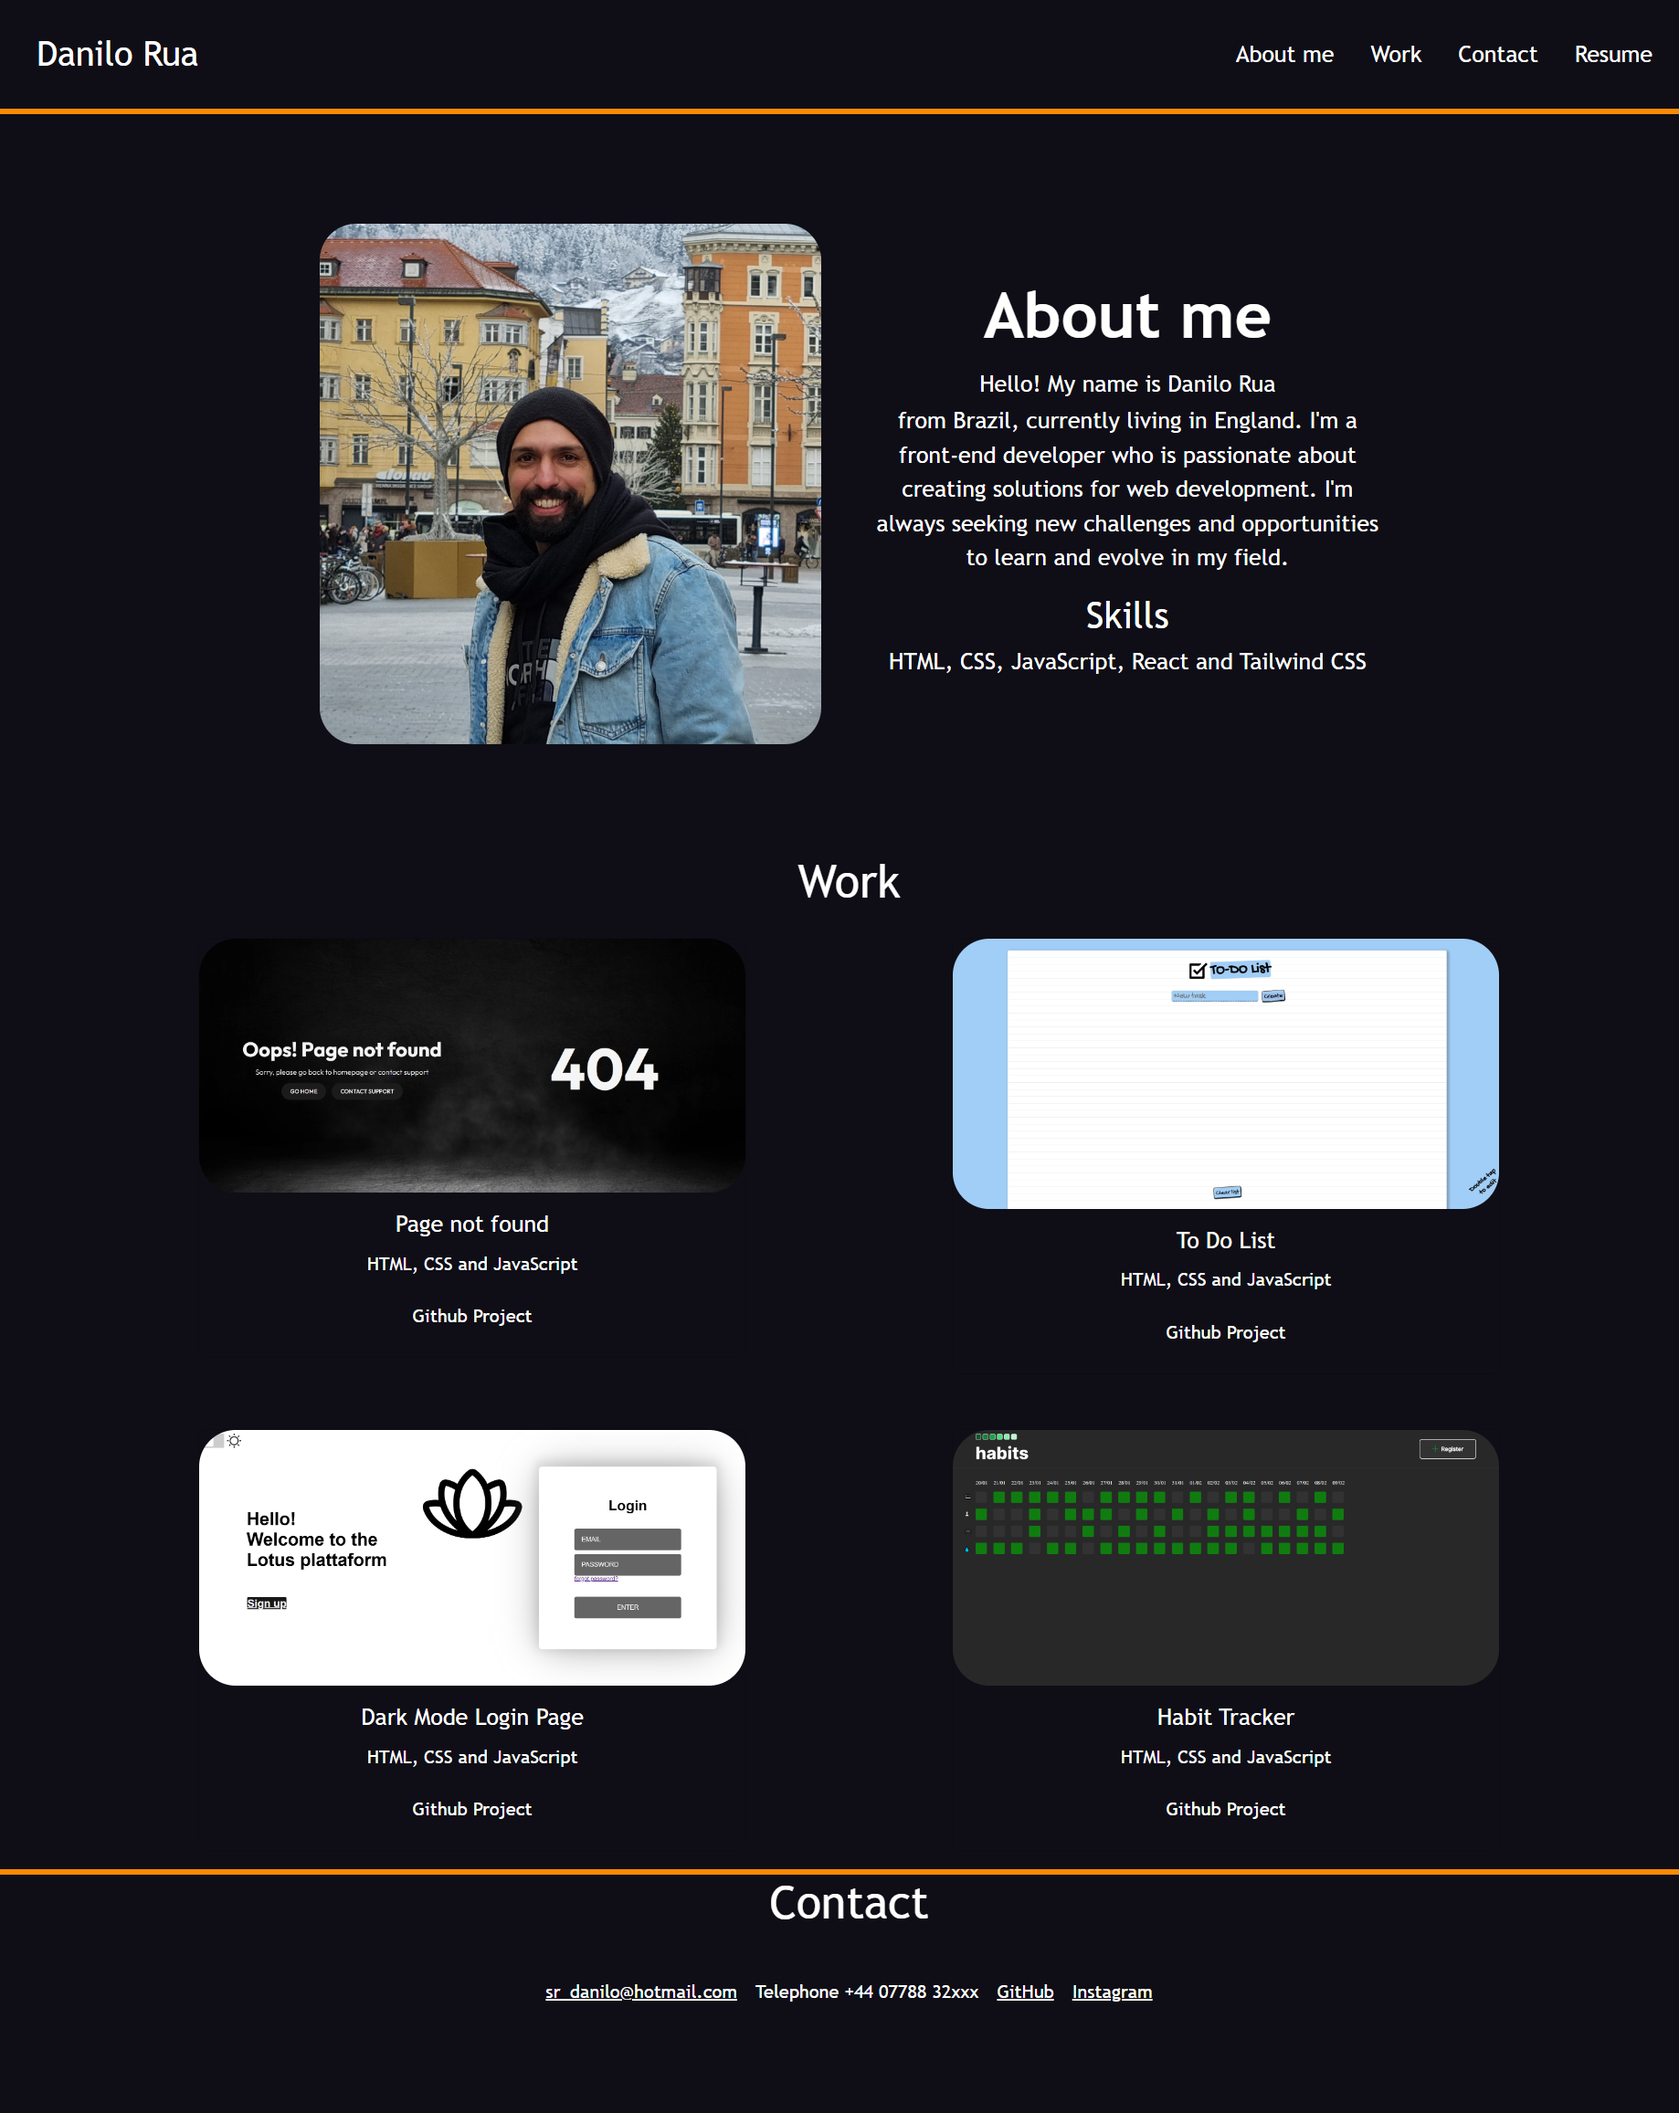
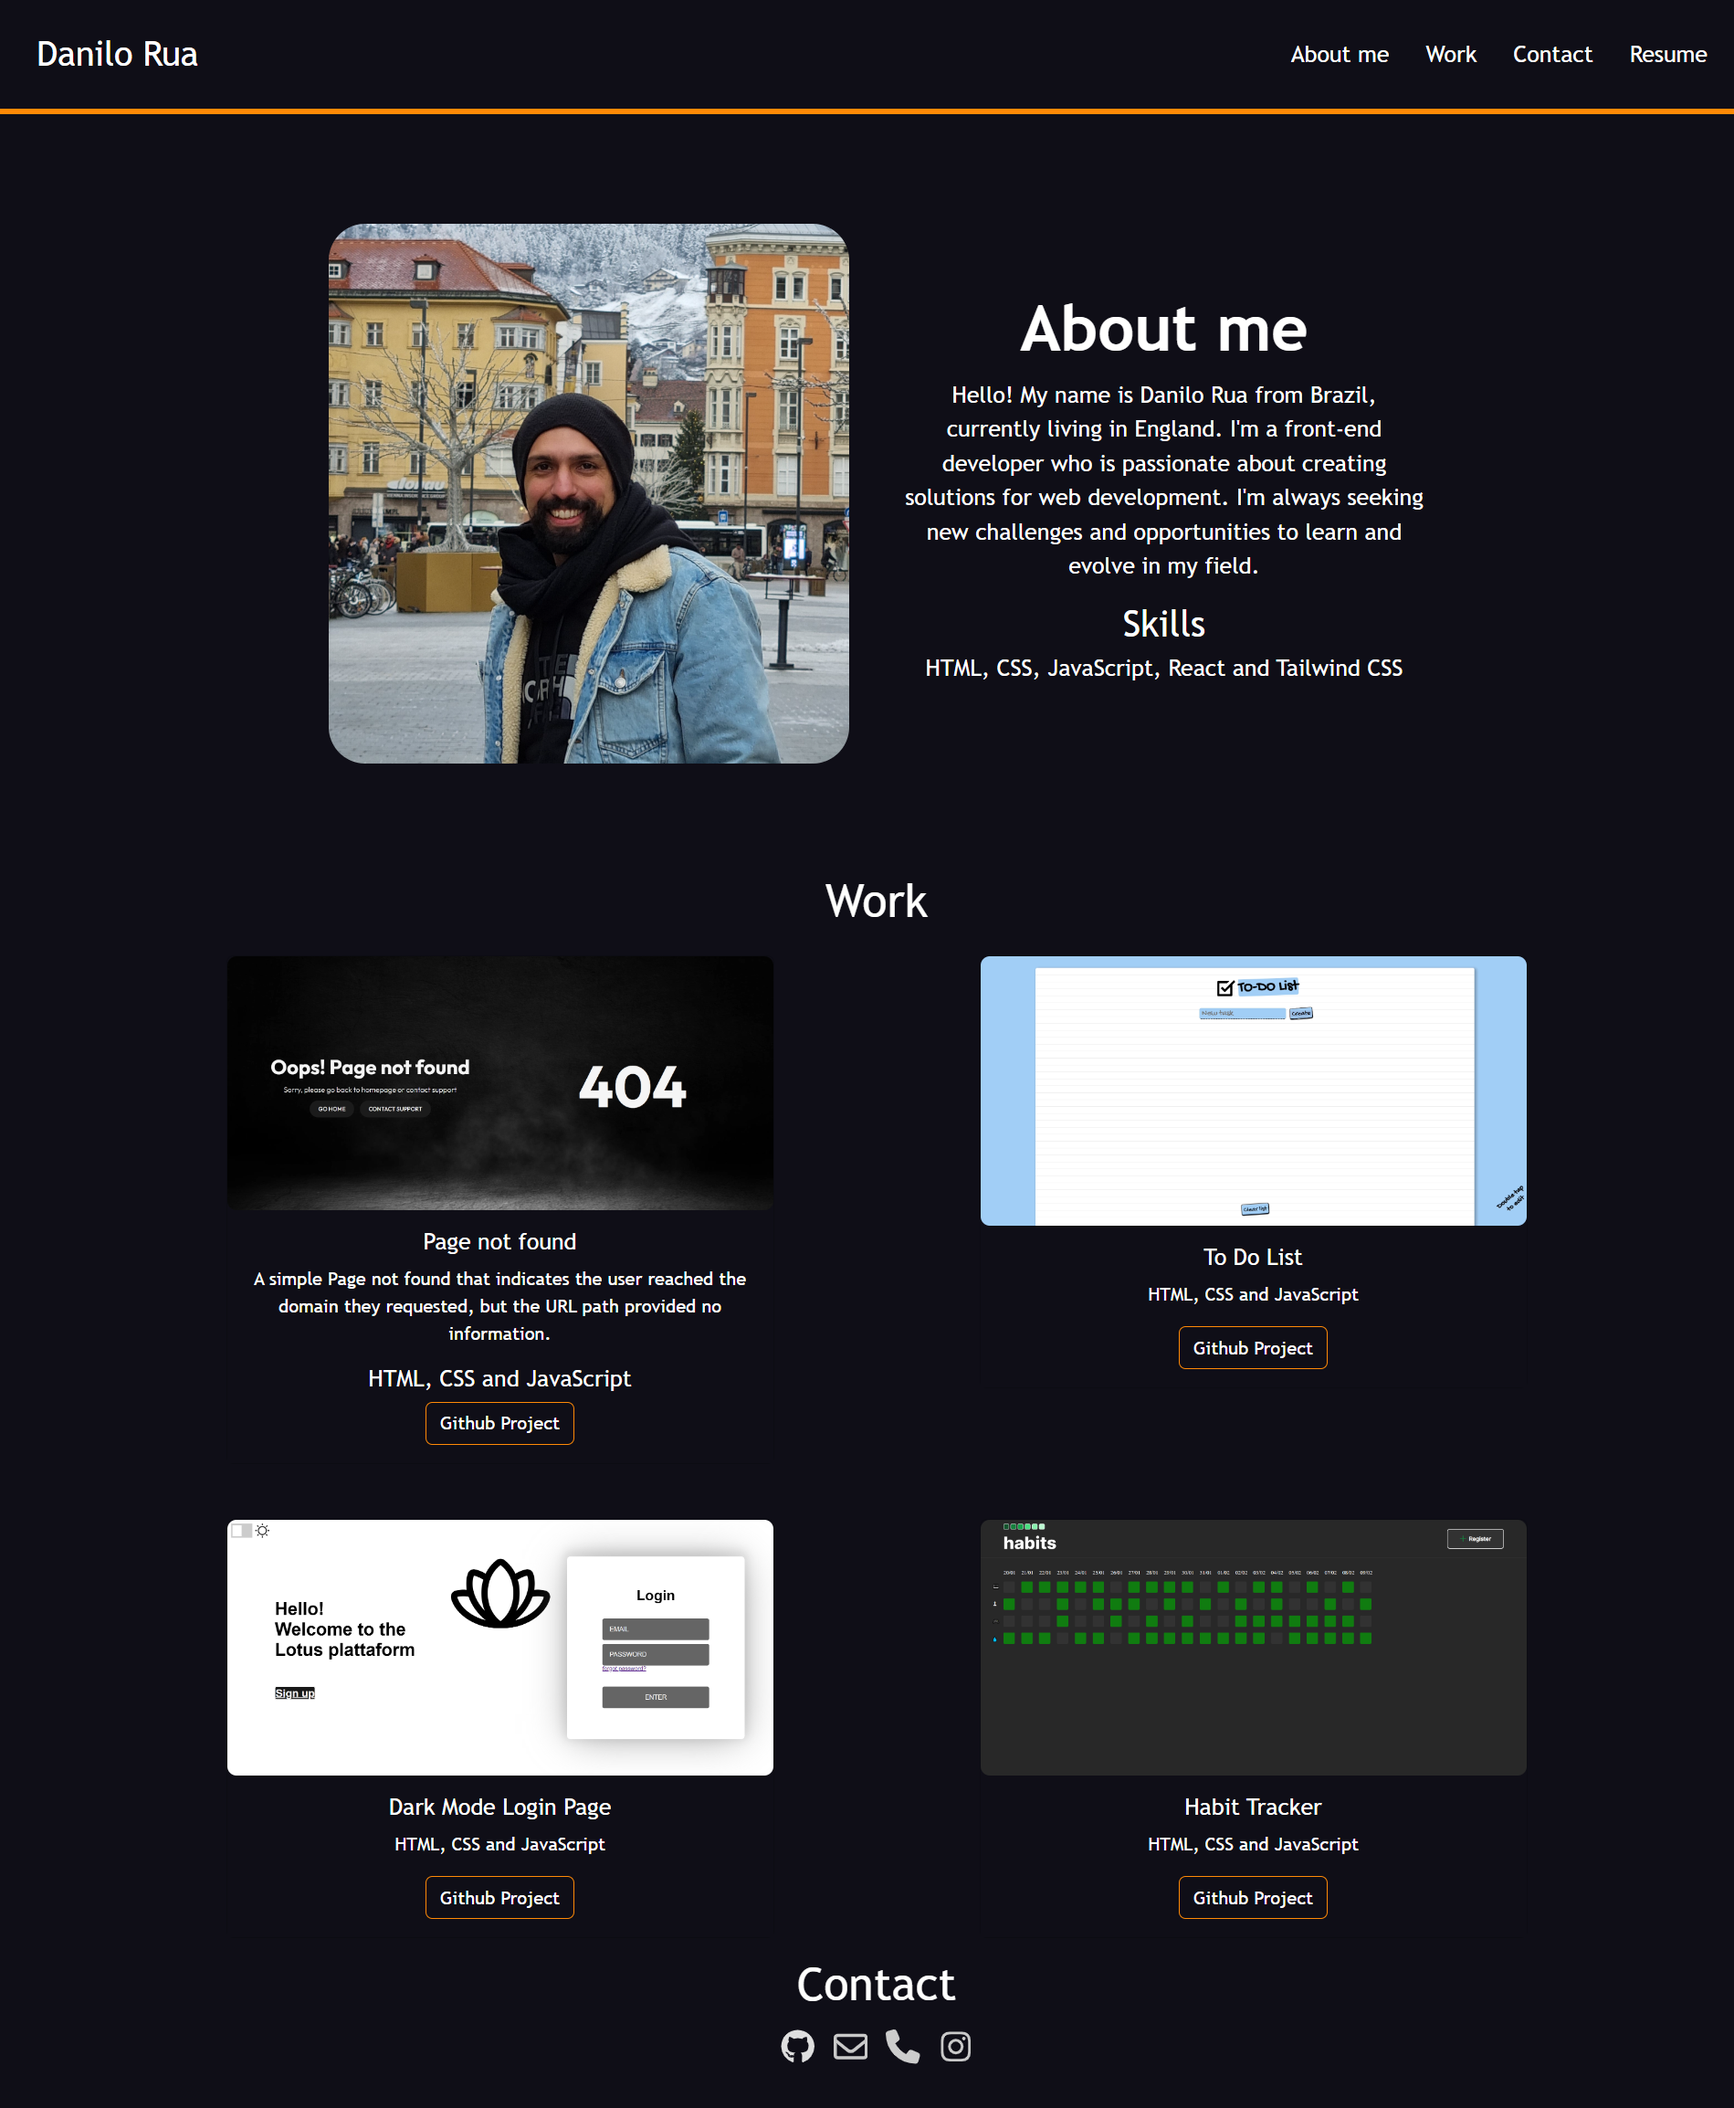
layout update

diff --git a/css/style.css b/css/style.css
@@ -13,9 +13,7 @@ body {
   font-family: "Trebuchet MS", "Lucida Sans Unicode", "Lucida Grande",
     "Lucida Sans", Arial, sans-serif;
 }
-main {
-  border-bottom: 5px solid var(--main-theme);
-}
+
 .customHeader {
   background-color: #0f0e17 !important;
   padding: 20px;
@@ -39,7 +37,7 @@ header {
 .nav-link {
   font-size: 20px;
 }
-
+.btn-primary:hover,
 .custom-card:hover,
 .customImg:hover {
   box-shadow: 0px 0px 15px 10px var(--main-theme);
@@ -52,25 +50,16 @@ header {
   justify-content: center !important;
   align-items: center !important;
 }
+
+
 .btn-primary:active,
 .btn-primary:focus,
 .btn-primary {
-  border: none;
+  border: var(--main-theme) 1px solid !important;
 }
 
-.titles::after {
-  content: "";
-  display: block;
-  width: 0;
-  height: 2px;
-  background: var(--main-theme);
-  transition: width 0.3s;
-}
 
-.btn-primary:hover::after {
-  width: 100%;
-  transition: width 0.6s;
-}
+
 #work-section {
   display: flex;
   text-align: center;

diff --git a/index.html b/index.html
@@ -71,7 +71,8 @@
                                     alt="page not found screenshot">
                                 <div class="card-body">
                                     <h5 class="card-title titles">Page not found</h5>
-                                    <p class="card-text"> HTML, CSS and JavaScript</p>
+                                    <p class="card-text CustomText">A simple Page not found that indicates the user reached the domain they requested, but the URL path provided no information.</p>
+                                    <h5>HTML, CSS and JavaScript</h5>
                                     <a href="https://github.com/DaniloRua/Page-not-found" target="_blank"
                                         class="btn btn-primary titles"> Github Project</a>
                                 </div>
